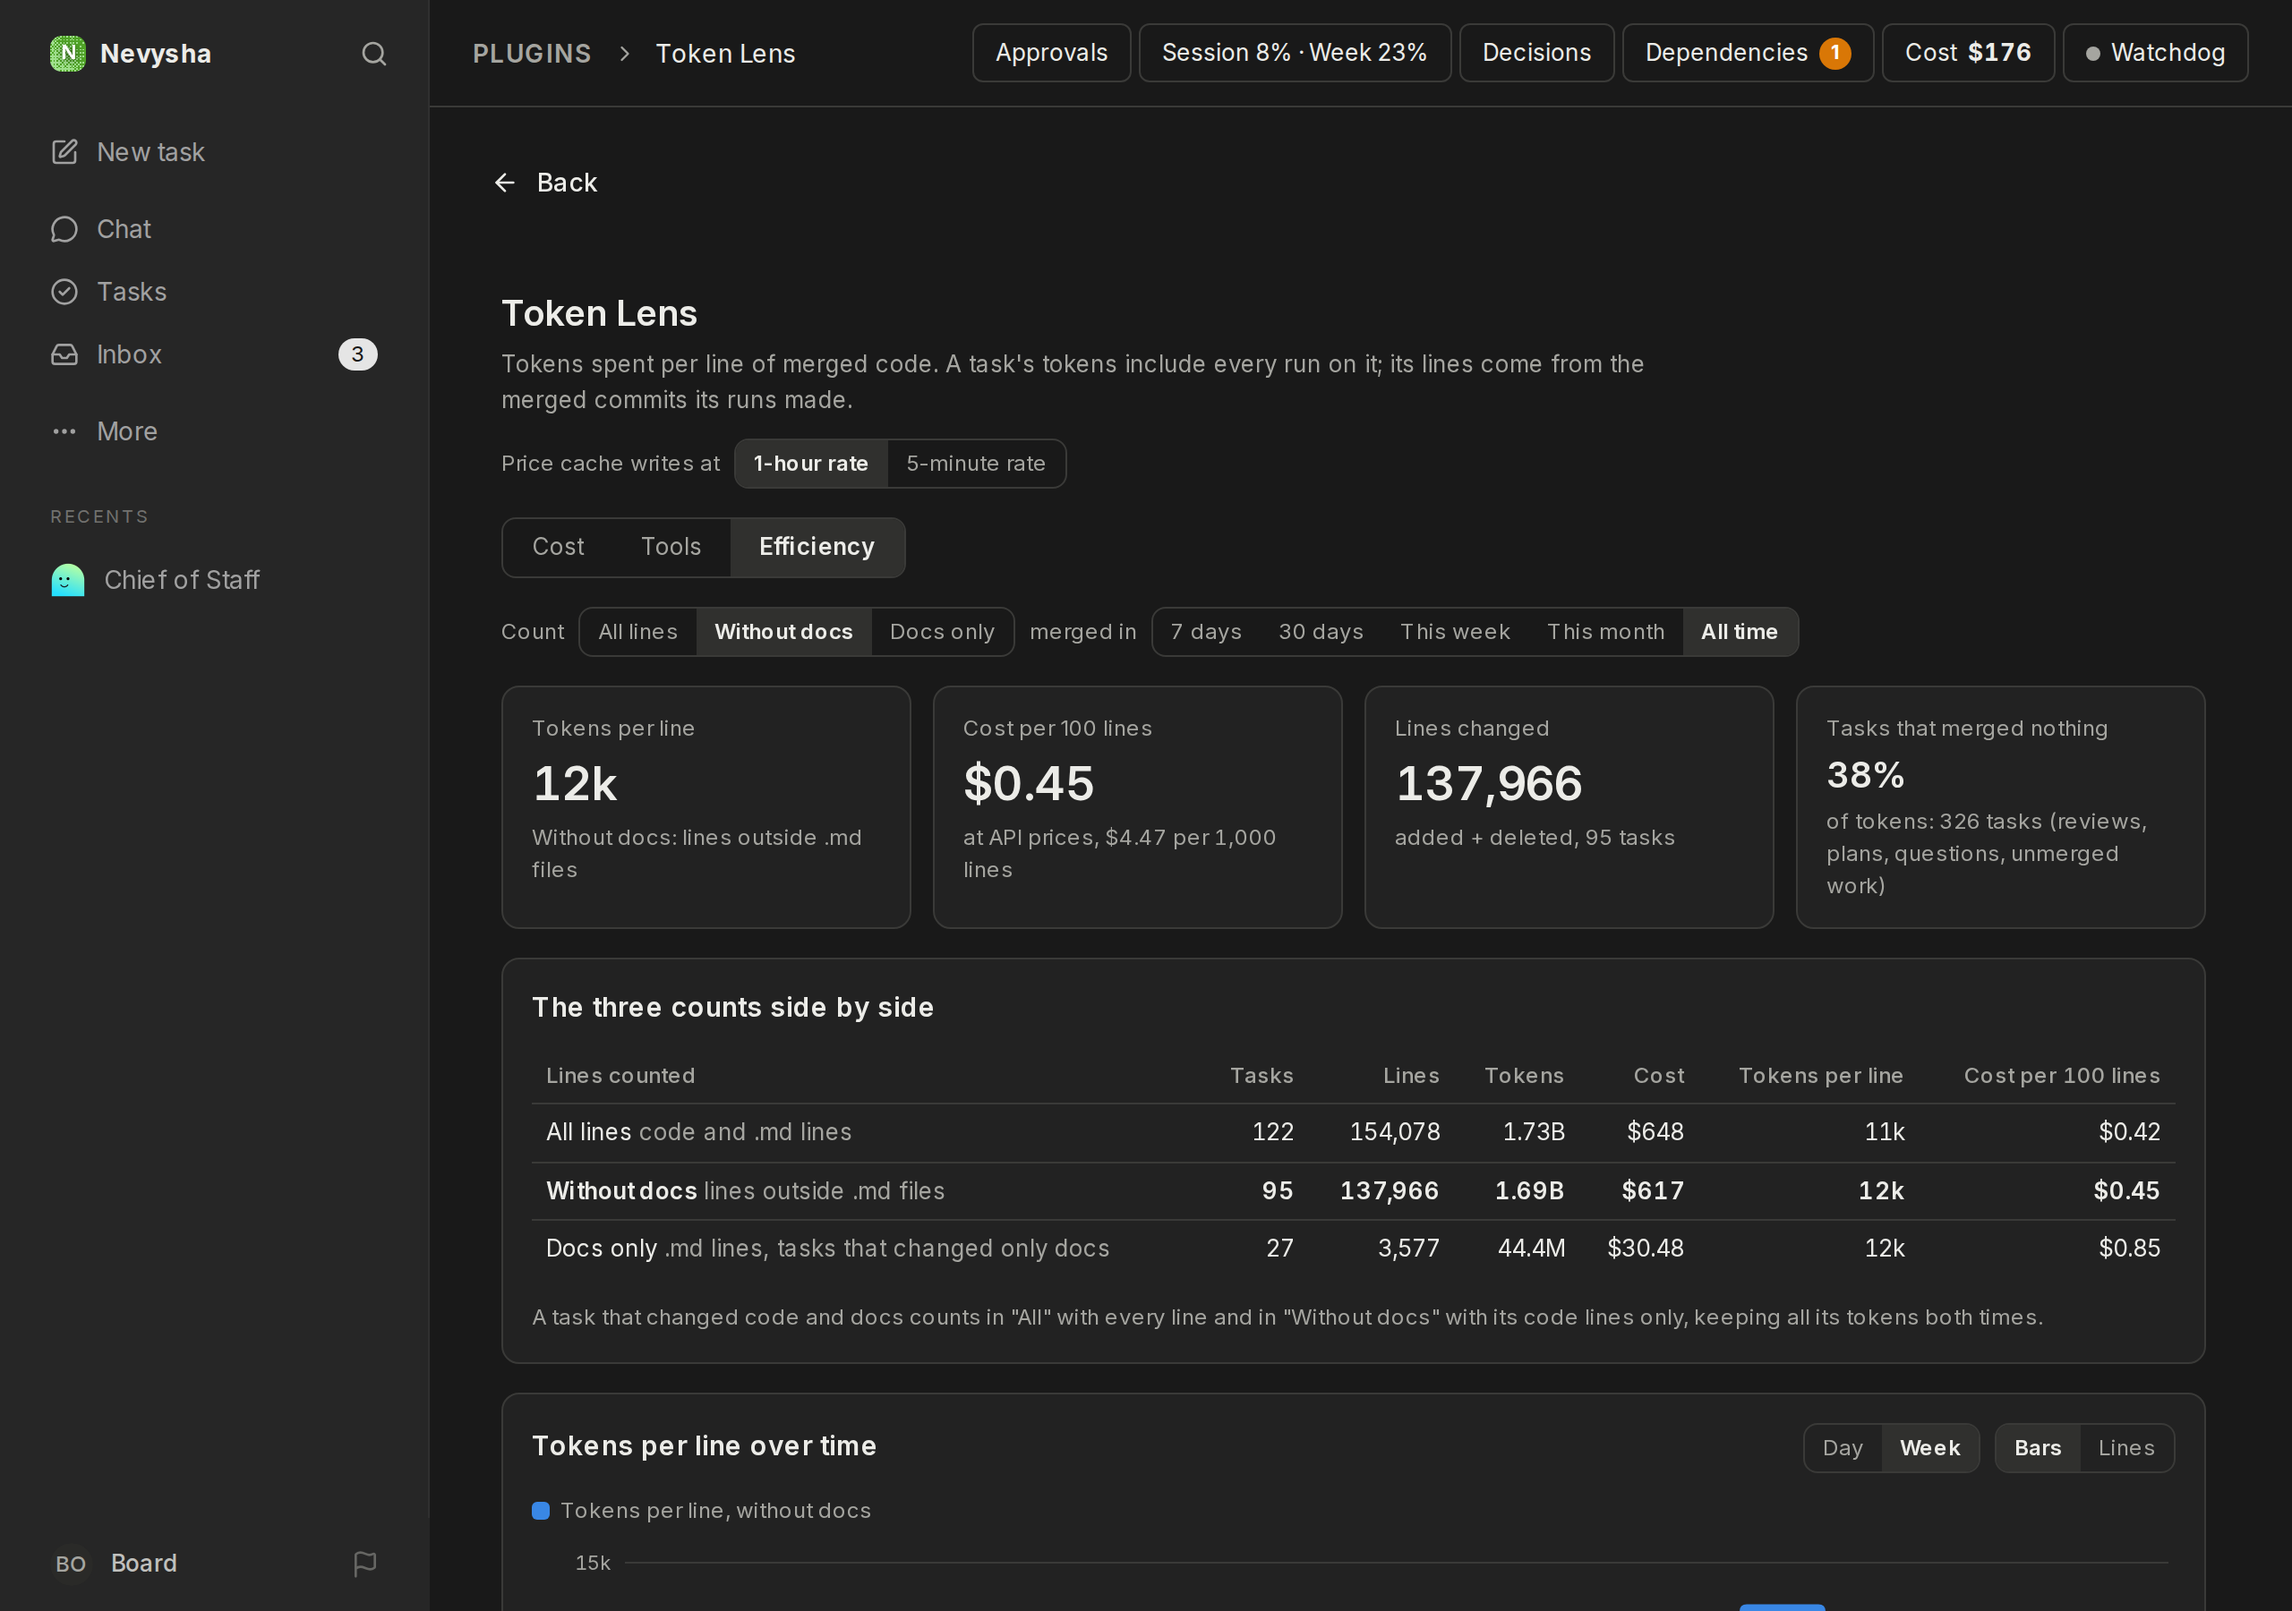
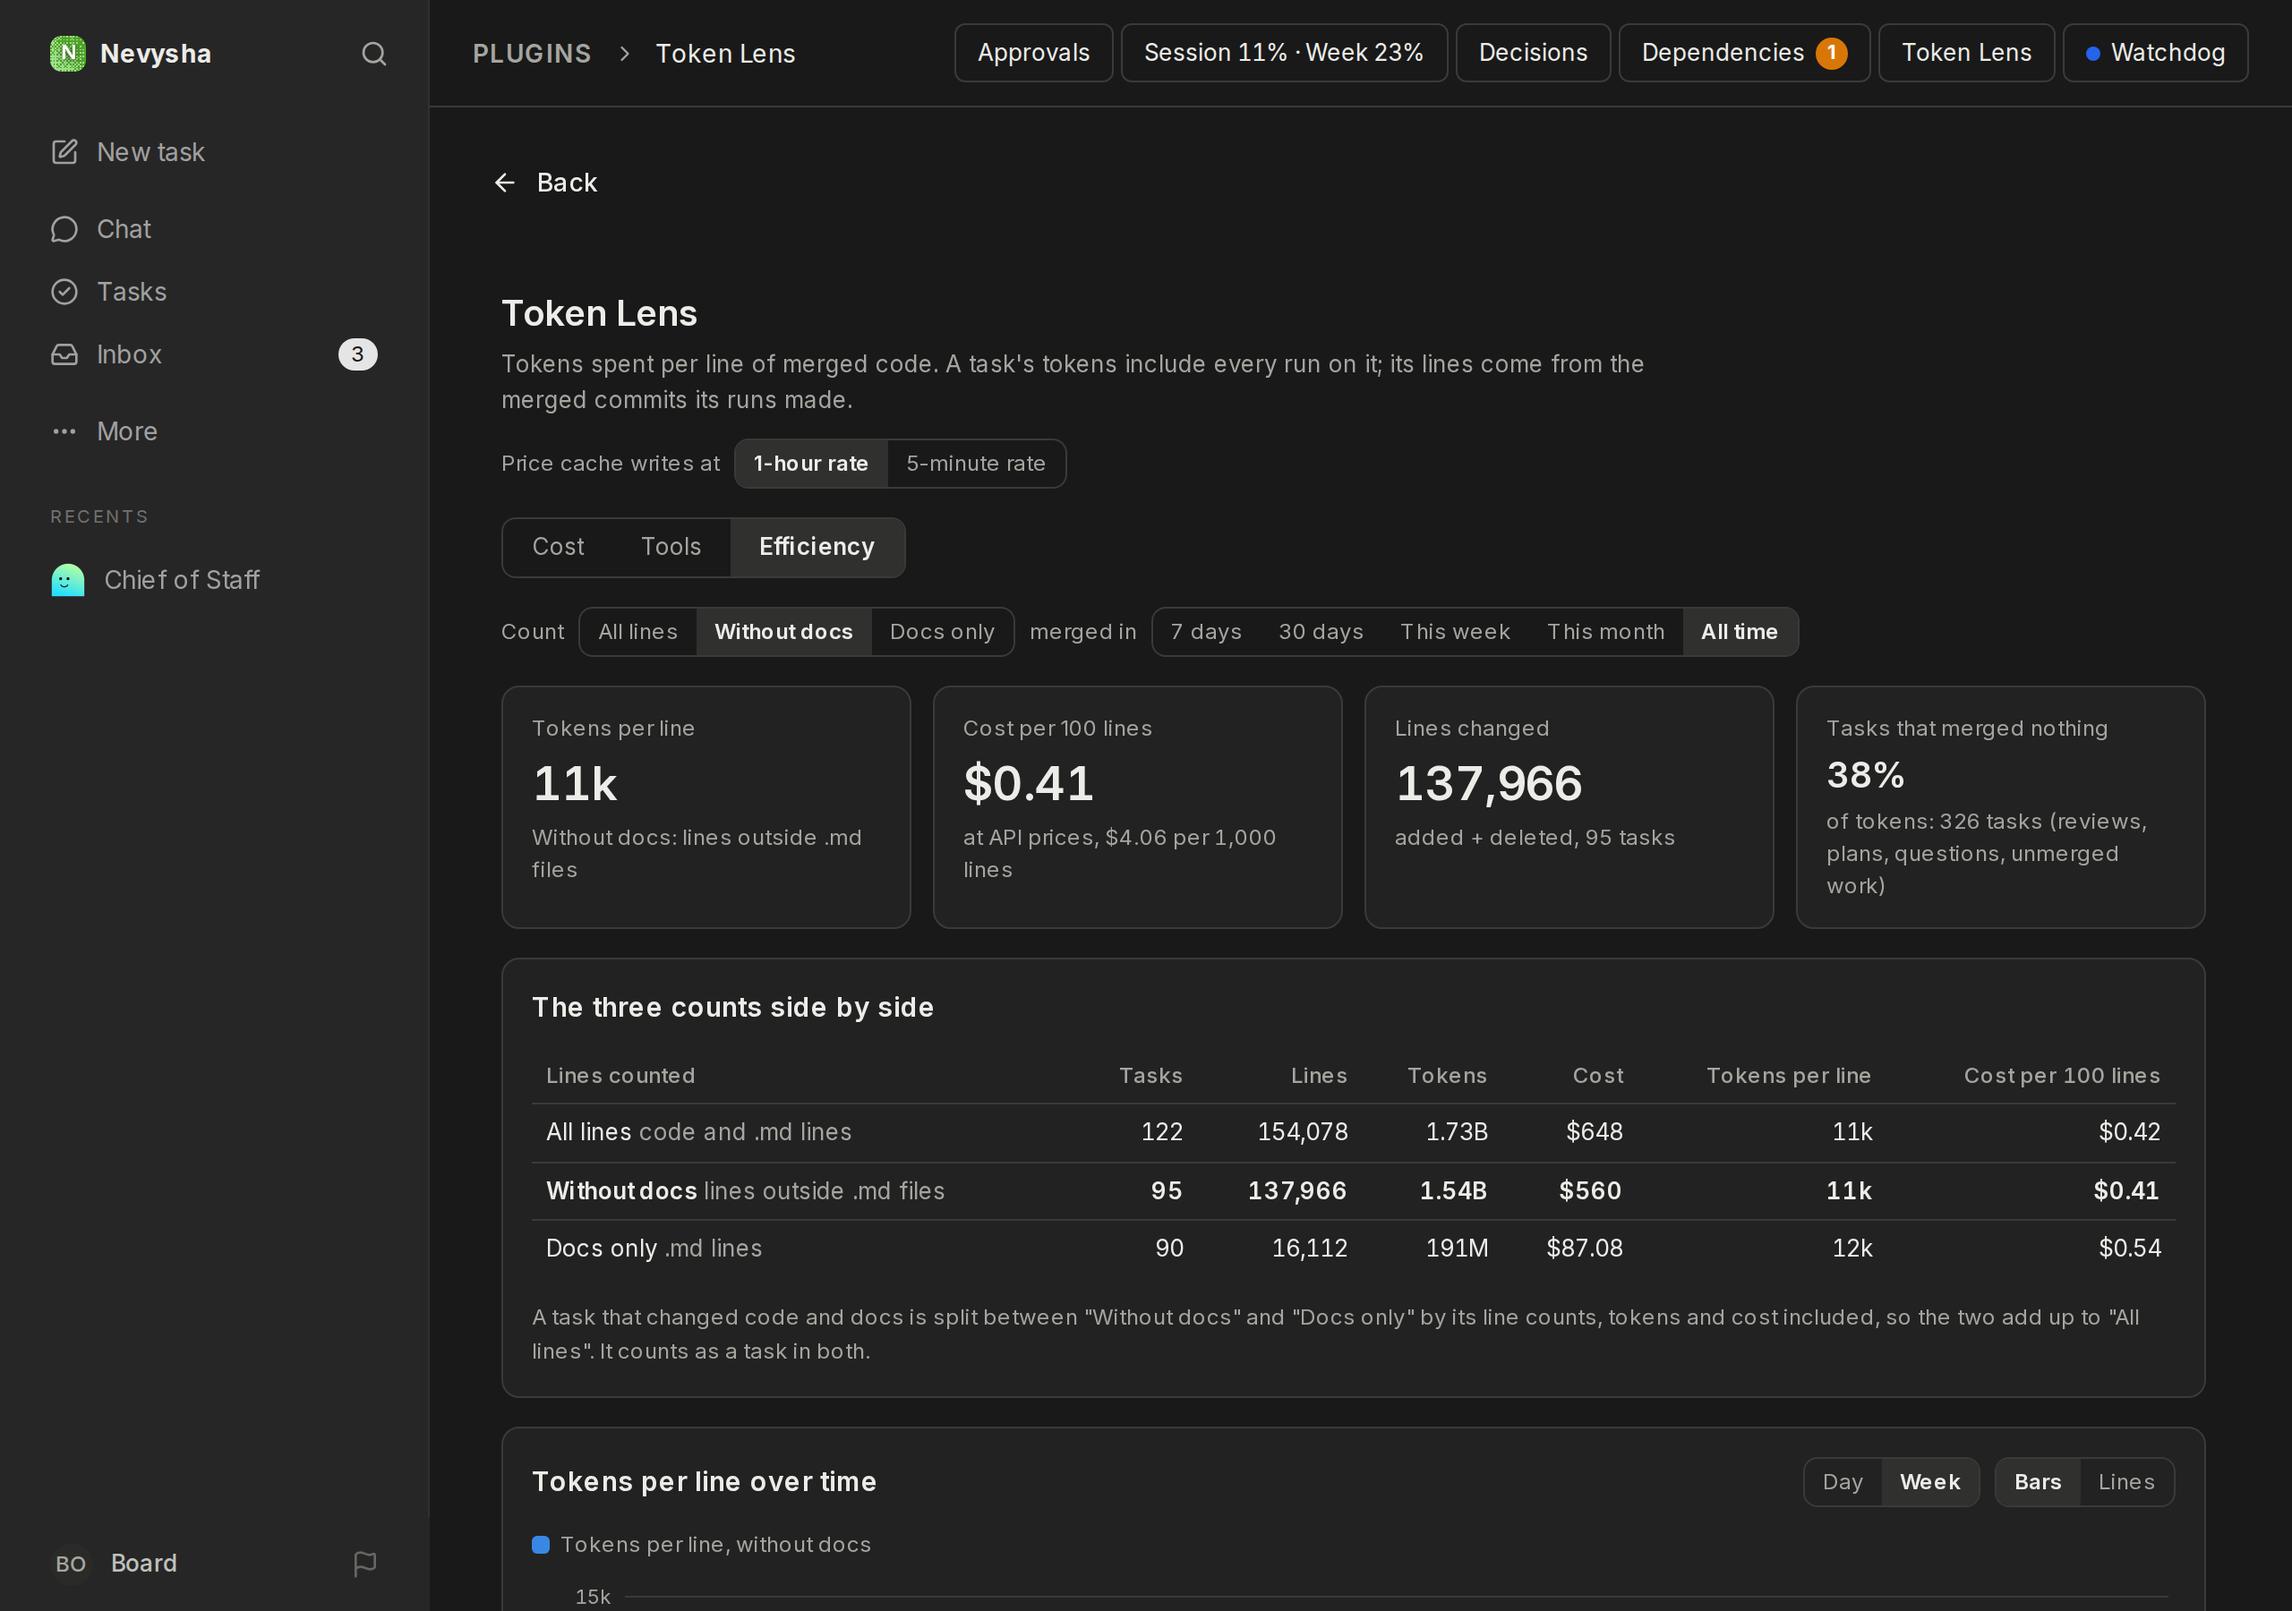
fleet-cost: without docs and docs only add up to all lines
A task that changed code and docs counted its code lines in "without docs" with all its tokens, and its doc lines nowhere. It is now split between the two counts by its line counts, tokens and cost included.

diff --git a/fleet-cost/src/ui/efficiency.tsx b/fleet-cost/src/ui/efficiency.tsx
@@ -1,7 +1,7 @@
 import { useMemo, useState } from "react";
 import { useHostNavigation } from "@paperclipai/plugin-sdk/ui";
 import { daysBetween, weekKey, weeksBetween, type CacheTtl } from "../pricing.js";
-import { buildTasks, efficiencyOf, inMode, linesOf, type CommitRow, type DocMode, type IssueUsage, type TaskEfficiency } from "../lens.js";
+import { buildTasks, efficiencyOf, inMode, linesOf, totalsIn, type CommitRow, type DocMode, type IssueUsage, type TaskEfficiency } from "../lens.js";
 import { Legend, Seg, Tile, TimeChart, dayLabel, localToday, pct, tok, usd, useChartKind, type Bucket, type Series } from "./common.js";
 import { inPeriod, type Period } from "./cost.js";
 
@@ -11,11 +11,11 @@ const MODE_LABEL: Record<DocMode, string> = { all: "All lines", code: "Without d
 const LINES_NOTE: Record<DocMode, string> = {
   all: "code and .md lines",
   code: "lines outside .md files",
-  docs: ".md lines, tasks that changed only docs",
+  docs: ".md lines",
 };
 type Sort = "perLine" | "cost" | "newest";
 
-const perLine = (t: TaskEfficiency, mode: DocMode) => { const l = linesOf(t, mode); return l ? t.t.tokens.total / l : 0; };
+const perLine = (t: TaskEfficiency, mode: DocMode) => { const l = linesOf(t, mode); return l ? totalsIn(t, mode).tokens.total / l : 0; };
 const short = (s: string | null, n = 60) => (s && s.length > n ? s.slice(0, n) + "…" : s ?? "");
 
 export function EfficiencyView({ data, ttl }: { data: EfficiencyData; ttl: CacheTtl }) {
@@ -60,7 +60,7 @@ export function EfficiencyView({ data, ttl }: { data: EfficiencyData; ttl: Cache
     const agentRows = [...agents].map(([name, ts]) => ({ name, ...efficiencyOf(ts, mode) })).sort((a, b) => b.t.cost.total - a.t.cost.total);
 
     const sorted = [...shown].sort((a, b) =>
-      sort === "perLine" ? perLine(b, mode) - perLine(a, mode) : sort === "cost" ? b.t.cost.total - a.t.cost.total : (a.mergedDay < b.mergedDay ? 1 : -1));
+      sort === "perLine" ? perLine(b, mode) - perLine(a, mode) : sort === "cost" ? totalsIn(b, mode).cost.total - totalsIn(a, mode).cost.total : (a.mergedDay < b.mergedDay ? 1 : -1));
     const commits = data.commits.filter((c) => c.mergedDay && keep(c.mergedDay));
     const matched = commits.filter((c) => c.matchMethod !== "none").length;
     return { eff, allModes, shown, sorted, buckets, series, agentRows, otherTokens, taskTokens, otherCount: otherUsage.length, commits: commits.length, matched, first };
@@ -105,7 +105,8 @@ export function EfficiencyView({ data, ttl }: { data: EfficiencyData; ttl: Cache
           </table>
         </div>
         <p className="fc-foot" style={{ margin: 0 }}>
-          A task that changed code and docs counts in &quot;All&quot; with every line and in &quot;Without docs&quot; with its code lines only, keeping all its tokens both times.
+          A task that changed code and docs is split between &quot;Without docs&quot; and &quot;Docs only&quot; by its line counts, tokens and cost included,
+          so the two add up to &quot;All lines&quot;. It counts as a task in both.
         </p>
       </section>
 
@@ -160,8 +161,8 @@ export function EfficiencyView({ data, ttl }: { data: EfficiencyData; ttl: Cache
                   <td className="fc-muted">{t.author ?? t.agents}</td>
                   <td className="fc-muted">{t.prs.map((n) => `#${n}`).join(" ")}</td>
                   <td className="fc-num" title={`${t.codeLines} code, ${t.docLines} doc lines; ${t.commits} commits`}>{linesOf(t, mode).toLocaleString("en-US")}</td>
-                  <td className="fc-num fc-muted">{tok(t.t.tokens.total)}</td>
-                  <td className="fc-num">{usd(t.t.cost.total)}</td>
+                  <td className="fc-num fc-muted">{tok(totalsIn(t, mode).tokens.total)}</td>
+                  <td className="fc-num">{usd(totalsIn(t, mode).cost.total)}</td>
                   <td className="fc-num">{tok(perLine(t, mode))}</td>
                 </tr>
               ))}

diff --git a/fleet-cost/src/lens.ts b/fleet-cost/src/lens.ts
@@ -78,7 +78,10 @@ export type CommitRow = {
   issueId: string | null; agentId: string | null; agentName: string | null;
 };
 
-/** all: every line; code: lines outside .md, tasks that changed code; docs: tasks that changed only .md. */
+/**
+ * all: every line; code: lines outside .md; docs: .md lines. A task that changed both is
+ * split by its line counts, tokens and cost included, so "code" plus "docs" is "all".
+ */
 export type DocMode = "all" | "code" | "docs";
 
 export type TaskEfficiency = {
@@ -134,9 +137,23 @@ export function linesOf(t: TaskEfficiency, mode: DocMode): number {
 }
 
 export function inMode(t: TaskEfficiency, mode: DocMode): boolean {
-  if (mode === "code") return t.codeLines > 0;
-  if (mode === "docs") return t.codeLines === 0 && t.docLines > 0;
-  return t.codeLines + t.docLines > 0;
+  return linesOf(t, mode) > 0;
+}
+
+/** The part of a task's usage that goes with the lines counted: its share of the task's lines. */
+export function shareOf(t: TaskEfficiency, mode: DocMode): number {
+  const all = t.codeLines + t.docLines;
+  return all > 0 ? linesOf(t, mode) / all : 0;
+}
+
+function scale<T extends Record<string, number>>(x: T, f: number): T {
+  return Object.fromEntries(Object.entries(x).map(([k, v]) => [k, v * f])) as T;
+}
+
+/** A task's tokens and cost for the lines counted. Runs aren't split: a run that changed both counts in both. */
+export function totalsIn(t: TaskEfficiency, mode: DocMode): Totals {
+  const f = shareOf(t, mode);
+  return f === 1 ? t.t : { cost: scale(t.t.cost, f), tokens: scale(t.t.tokens, f), runs: t.t.runs };
 }
 
 export type Efficiency = { tasks: number; lines: number; t: Totals; tokensPerLine: number; costPerLine: number };
@@ -149,7 +166,8 @@ export function efficiencyOf(tasks: TaskEfficiency[], mode: DocMode): Efficiency
     if (!inMode(x, mode)) continue;
     n++;
     lines += linesOf(x, mode);
-    t = { cost: addCost(t.cost, x.t.cost), tokens: addTokens(t.tokens, x.t.tokens), runs: t.runs + x.t.runs };
+    const part = totalsIn(x, mode);
+    t = { cost: addCost(t.cost, part.cost), tokens: addTokens(t.tokens, part.tokens), runs: t.runs + part.runs };
   }
   return { tasks: n, lines, t, tokensPerLine: lines ? t.tokens.total / lines : 0, costPerLine: lines ? t.cost.total / lines : 0 };
 }

diff --git a/fleet-cost/tests/lens.spec.ts b/fleet-cost/tests/lens.spec.ts
@@ -58,8 +58,17 @@ describe("efficiency", () => {
     expect(efficiencyOf(tasks, "all")).toMatchObject({ tasks: 2, lines: 240 });
     const code = efficiencyOf(tasks, "code");
     expect(code).toMatchObject({ tasks: 1, lines: 100 });
-    expect(code.tokensPerLine).toBe(100_000); // all of i1's 10M tokens over its 100 code lines
-    expect(efficiencyOf(tasks, "docs")).toMatchObject({ tasks: 1, lines: 40, tokensPerLine: 100_000 });
+    expect(code.tokensPerLine).toBe(50_000); // half of i1's 10M tokens (its 100 code lines of 200) over 100 lines
+    const docs = efficiencyOf(tasks, "docs");
+    expect(docs).toMatchObject({ tasks: 2, lines: 140 }); // i1's 100 doc lines and i2's 40
+    expect(docs.t.tokens.total).toBe(9_000_000); // the other half of i1, and all of i2
+  });
+  it("splits mixed tasks so without docs plus docs only is all lines", () => {
+    const { tasks } = data();
+    const [all, code, docs] = (["all", "code", "docs"] as const).map((m) => efficiencyOf(tasks, m));
+    expect(code!.lines + docs!.lines).toBe(all!.lines);
+    expect(code!.t.tokens.total + docs!.t.tokens.total).toBeCloseTo(all!.t.tokens.total);
+    expect(code!.t.cost.total + docs!.t.cost.total).toBeCloseTo(all!.t.cost.total);
   });
 });
 

diff --git a/fleet-cost/README.md b/fleet-cost/README.md
@@ -40,7 +40,7 @@ The plugin was called Fleet Cost; its ID (`nevysha.fleet-cost`) and page URL (`/
 - **Lines** are the additions and deletions of each merged PR's own commits, before the squash. Lockfiles and binary files are left out; `.md` and `.mdx` count as docs.
 - **Which task a commit belongs to:** the task of the run that made it. The collector finds that run through its `git commit` commands: the hash git printed, or else the commit's first line matched against the commit messages the runs used. Commits from before runs recorded tool calls (the `claude_local` night of Nov 8–9) and merge commits fall back to the task named in the PR title.
 - **A task's tokens** are every run on it, including reviews and retries on that task. Tasks that merged nothing (reviews on their own task, plans, questions, unmerged work) are shown as a share of tokens.
-- The three counts: **All lines** (code and docs); **Without docs** (code lines only, tasks that changed code; a mixed task keeps all its tokens); **Docs only** (tasks that changed nothing but `.md`).
+- The three counts: **All lines** (code and docs); **Without docs** (lines outside `.md`); **Docs only** (`.md` lines). A task that changed both is split by its line counts: its tokens and cost go to each count in proportion to that count's lines. So without docs plus docs only is exactly all lines, in lines, tokens and cost. Within one such task, a doc line and a code line cost the same.
 - Line counts are a rough measure of work: good for trends and outliers, not for ranking agents against each other.
 
 ## The collector
